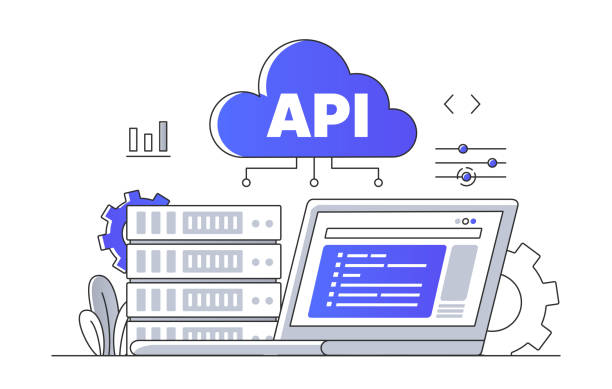
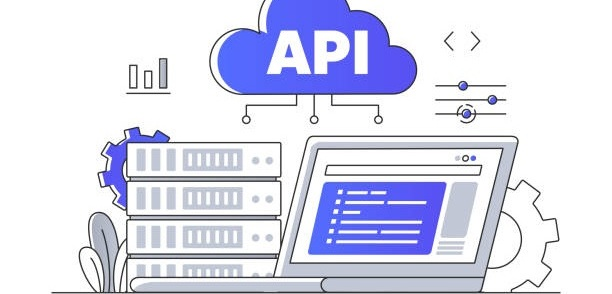
Corrige cor da  seção about

diff --git a/src/componentsPage/About/About.tsx b/src/componentsPage/About/About.tsx
@@ -22,25 +22,25 @@ export const About = () => {
             <Stack
                 direction={{ base: "column", lg: "row" }}
                 gap={{ base: "12", lg: "20" }}
-                align="flex-start" // Texto agora começa do topo
+                align="flex-start"
                 justify="space-between"
             >
-                {/* LADO ESQUERDO: Conteúdo Matador */}
-                <Box flex="1.2" textAlign="left">
+
+                <Box flex="1.2" textAlign="left" >
                     <Heading size={{ base: "3xl", md: "5xl" }} fontWeight="bold" mb="6" >
                         Sobre.
                     </Heading>
 
                     <Stack gap="4" color="gray.600" fontSize="md" lineHeight="tall">
-                        <Text>
+                        <Text color="gray.fg">
                             Me chamo Gabriel, tenho 24 anos e desde 2023 estou em transição para a área de desenvolvimento de software. Atualmente curso Engenharia de Software e trabalho com o ecossistema JavaScript, utilizando tecnologias como TypeScript, Node.js, React e bancos de dados SQL.
                         </Text>
 
-                        <Text>
+                        <Text color="gray.fg">
                             Hoje desenvolvo projetos completos, além de implementar integrações e melhorias em sistemas existentes. Tenho experiência prática na construção de aplicações e busco atuar como desenvolvedor Full Stack, Back-end ou Front-end.
                         </Text>
 
-                        <Text>
+                        <Text color="gray.fg">
                             Procuro oportunidades onde eu possa aplicar meus conhecimentos em projetos reais, evoluir profissionalmente e contribuir com soluções eficientes e bem estruturadas.
                         </Text>
                         <Text fontSize="sm" fontStyle="italic" color="gray.500" borderTop="1px solid" borderColor="gray.100" pt="4">
@@ -48,7 +48,7 @@ export const About = () => {
                         </Text>
 
                         <Box py="4">
-                            <Text fontWeight="bold" mb="3" color="gray.700">Principais tecnologias:</Text>
+                            <Text fontWeight="bold" mb="3" color="gray.fg" >Principais tecnologias:</Text>
                             <Wrap gap="2">
                                 {techStack.map((tech) => (
                                     <Badge key={tech} variant="subtle" colorScheme="blue" px="2" py="1" rounded="md">
@@ -62,15 +62,16 @@ export const About = () => {
                     </Stack>
                 </Box>
 
-                {/* LADO DIREITO: Marquee Visual */}
+
                 <Box
+                
                     flex="0.8"
                     height="600px"
                     overflow="hidden"
                     perspective="1200px"
                     width="100%"
                     position="relative"
-                    display={{ base: "none", md: "block" }} // Oculta em telas muito pequenas para focar no texto
+                    display={{ base: "none", md: "block" }}
                 >
                     <Stack
                         direction="row"
@@ -90,20 +91,12 @@ export const About = () => {
 
                         <Marquee.Root side="bottom" flex="1" autoFill>
                             <Marquee.Viewport>
-                                <Marquee.Content>
+                                <Marquee.Content >
                                     <MarqueeItems images={imagesColumn2} />
                                 </Marquee.Content>
                             </Marquee.Viewport>
                         </Marquee.Root>
                     </Stack>
-
-                    {/* Gradientes para "sumir" com as bordas do card e dar profundidade */}
-                    <Box
-                        position="absolute"
-                        inset="0"
-                        pointerEvents="none"
-                        bgGradient="linear(to-b, background 0%, transparent 20%, transparent 80%, background 100%)"
-                    />
                 </Box>
             </Stack>
         </Container>
@@ -139,7 +132,7 @@ const imagesColumn1 = [
 ]
 
 const imagesColumn2 = [
-    image8, 
+    image8,
     image9,
     image6,
     image7

diff --git a/src/componentsPage/card/CardFull.tsx b/src/componentsPage/card/CardFull.tsx
@@ -36,7 +36,7 @@ function CardFull({ imgCard, iconDescriptionTechnologies, titleDescription, text
         <>
             <Dialog.Root lazyMount open={open} onOpenChange={(e) => setOpen(e.open)} placement={"center"} >
                 <Dialog.Trigger asChild>
-                    <Flex bg="bg.muted" direction="column" minW={{ base: "220px", md: "290px" }} flex="1" borderRadius="lg" shadow="sm" transition="all 0.3s ease"
+                    <Flex bg="bg.subtle"  direction="column" minW={{ base: "220px", md: "290px" }} flex="1" borderRadius="lg" shadow="sm" transition="all 0.3s ease"
                         _hover={{
                             transform: "translateY(-4px) rotate(-0.5deg)",
                             boxShadow: "xl",
@@ -45,12 +45,13 @@ function CardFull({ imgCard, iconDescriptionTechnologies, titleDescription, text
                             transform: "translateY(-4px) rotate(-0.5deg)",
                             boxShadow: "xl",
                         }}
+                        cursor={"pointer"}
                     >
                         <ImgContain imagem={imgCard} />
                         <Tag.Root bg="purple.emphasized" color="white" size="lg" variant="solid" w="fit-content" borderBottomRadius={"md"} borderTopRadius="none" >
                             <Tag.Label>{defaultText} </Tag.Label>
                         </Tag.Root>
-                        <Stack gap="2" p="4" borderBottomRadius="lg" >
+                        <Stack gap="2" p="4" borderBottomRadius="lg"  >
                             <TitleDescriptionCard title={titleDescription} text={textDescription} />
                             <IconsDescription technologies={iconDescriptionTechnologies} />
                         </Stack>

diff --git a/src/componentsPage/card/imgContain.tsx b/src/componentsPage/card/imgContain.tsx
@@ -12,15 +12,14 @@ function ImgContain({ imagem }: PropsImage) {
   return (
     <Box borderTopRadius="lg" overflow="hidden" >
       <Carousel.Root
+
         loop={true}
         slideCount={imagem.length}
-        allowMouseDrag={true}
-        autoplay={true}
-      
+       
+        autoplay={{ delay: 2000 }}
         w="100%"
         position="relative"
       >
-        {/* Slides */}
         <Carousel.ItemGroup>
           {imagem.map((imgKey, index) => {
             const imgProp = image[imgKey]
@@ -33,16 +32,15 @@ function ImgContain({ imagem }: PropsImage) {
                   objectFit="cover"
                   src={imgProp.src}
                   alt={imgProp.alt}
-                
+
                 />
               </Carousel.Item>
             )
           })}
         </Carousel.ItemGroup>
-
-
         <Carousel.Control justifyContent="center" gap="4">
-          <Carousel.Indicators />
+          <Carousel.Indicators
+          />
         </Carousel.Control>
       </Carousel.Root>
     </Box>
